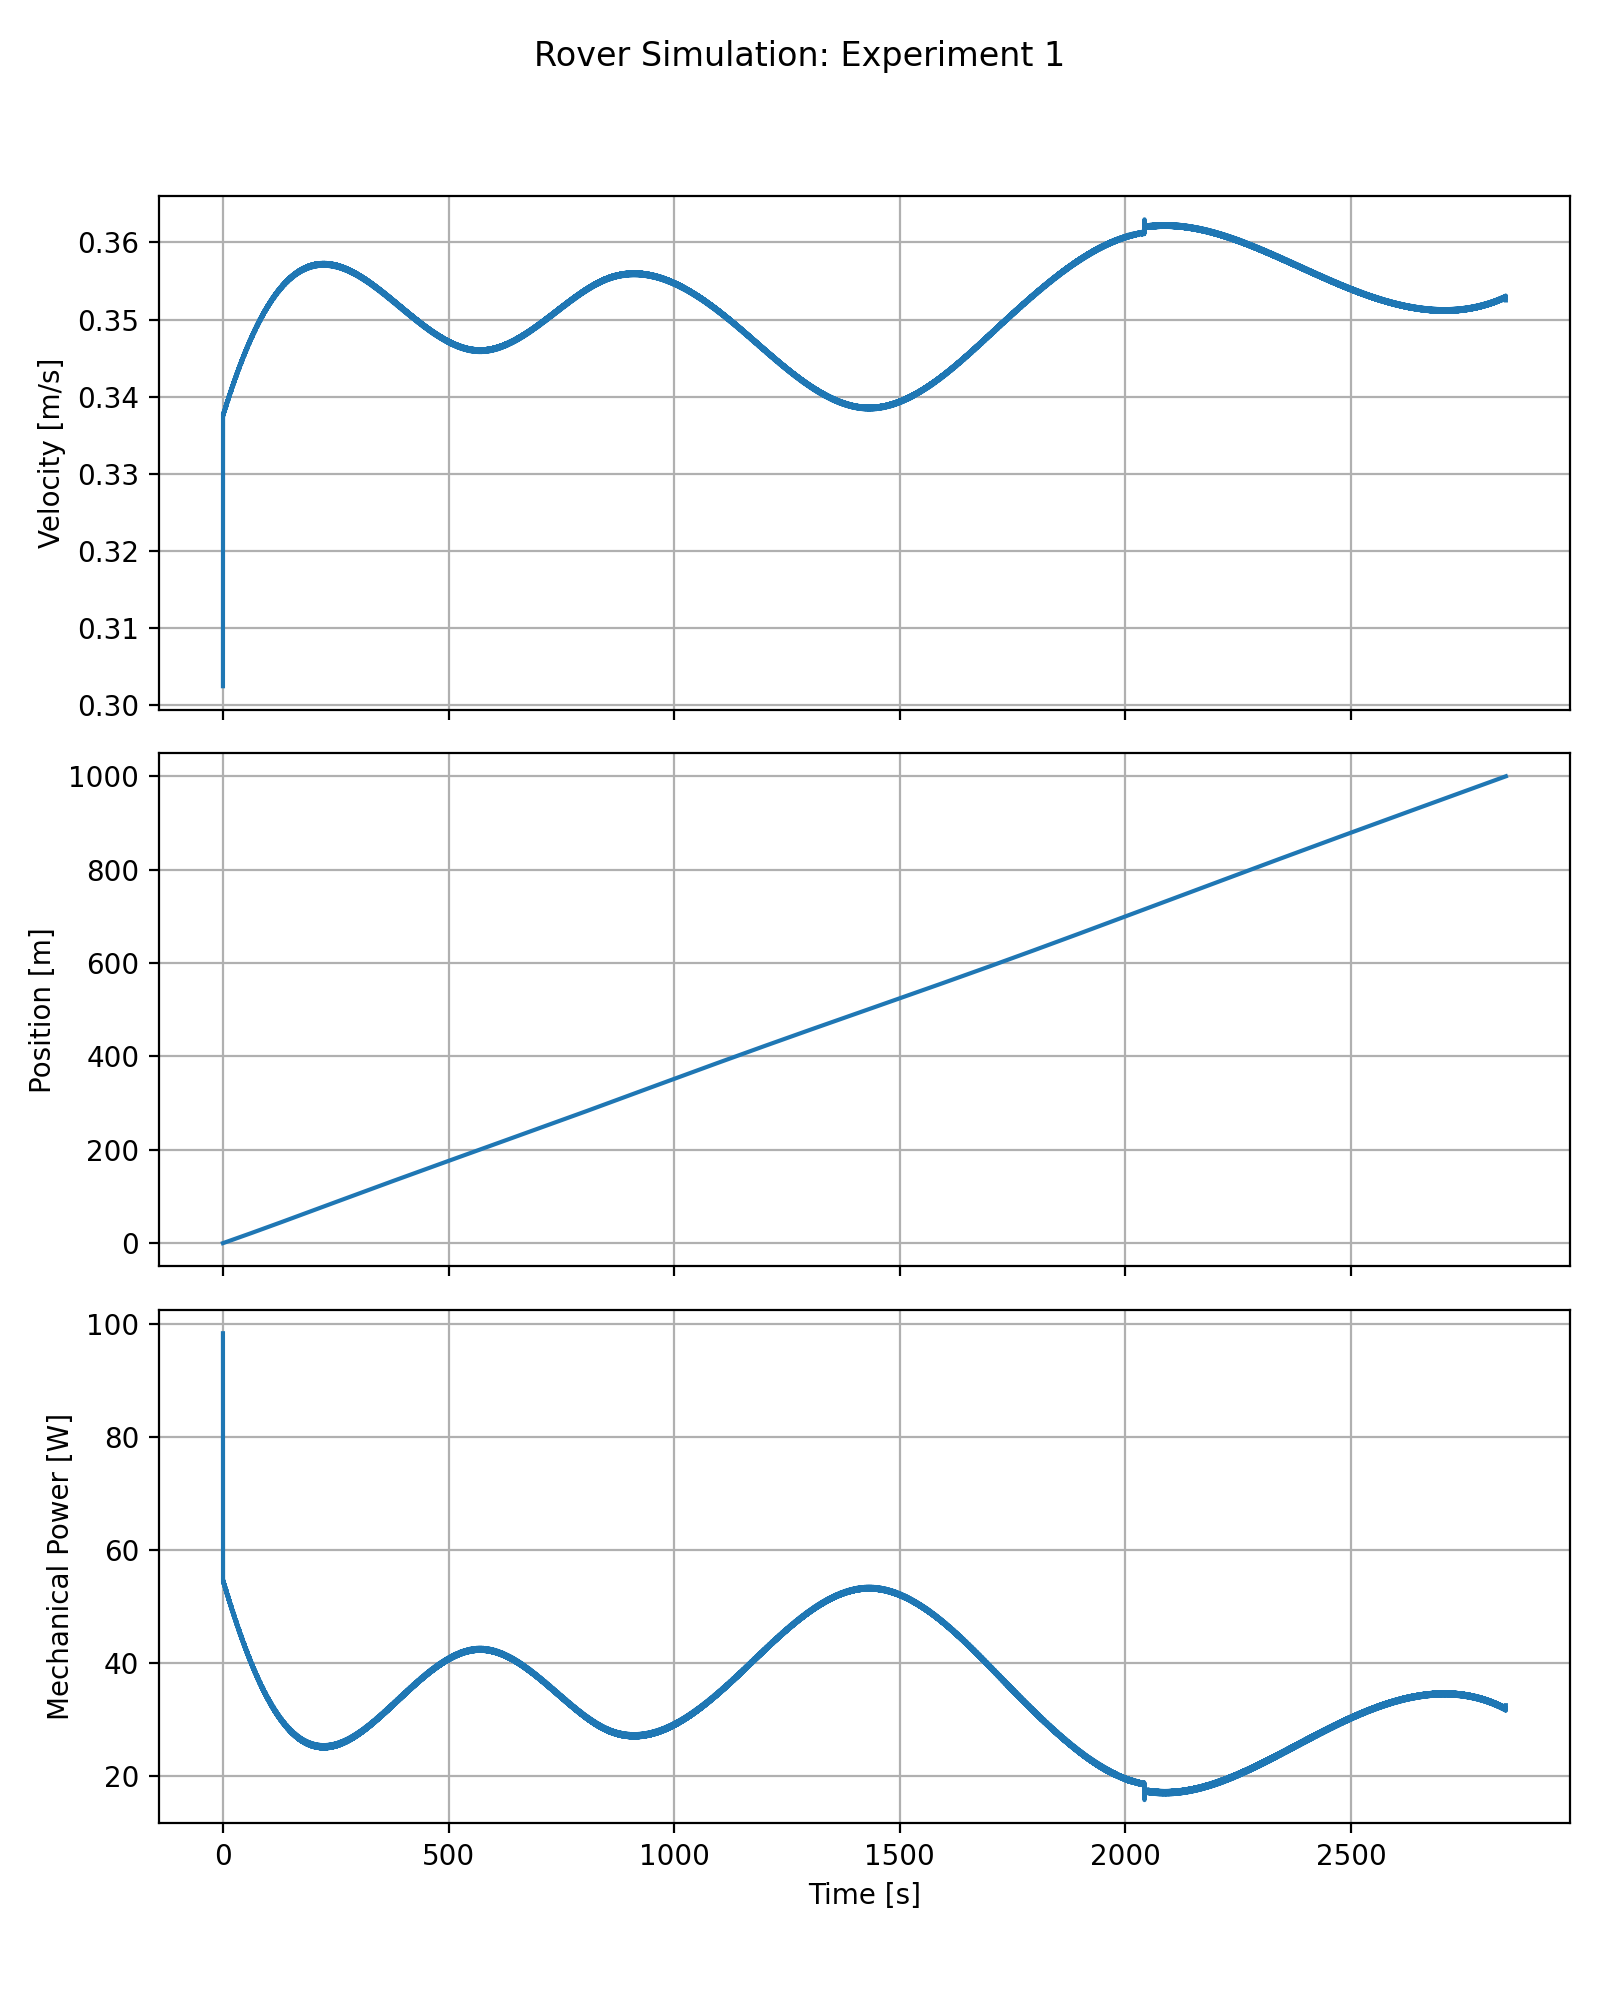
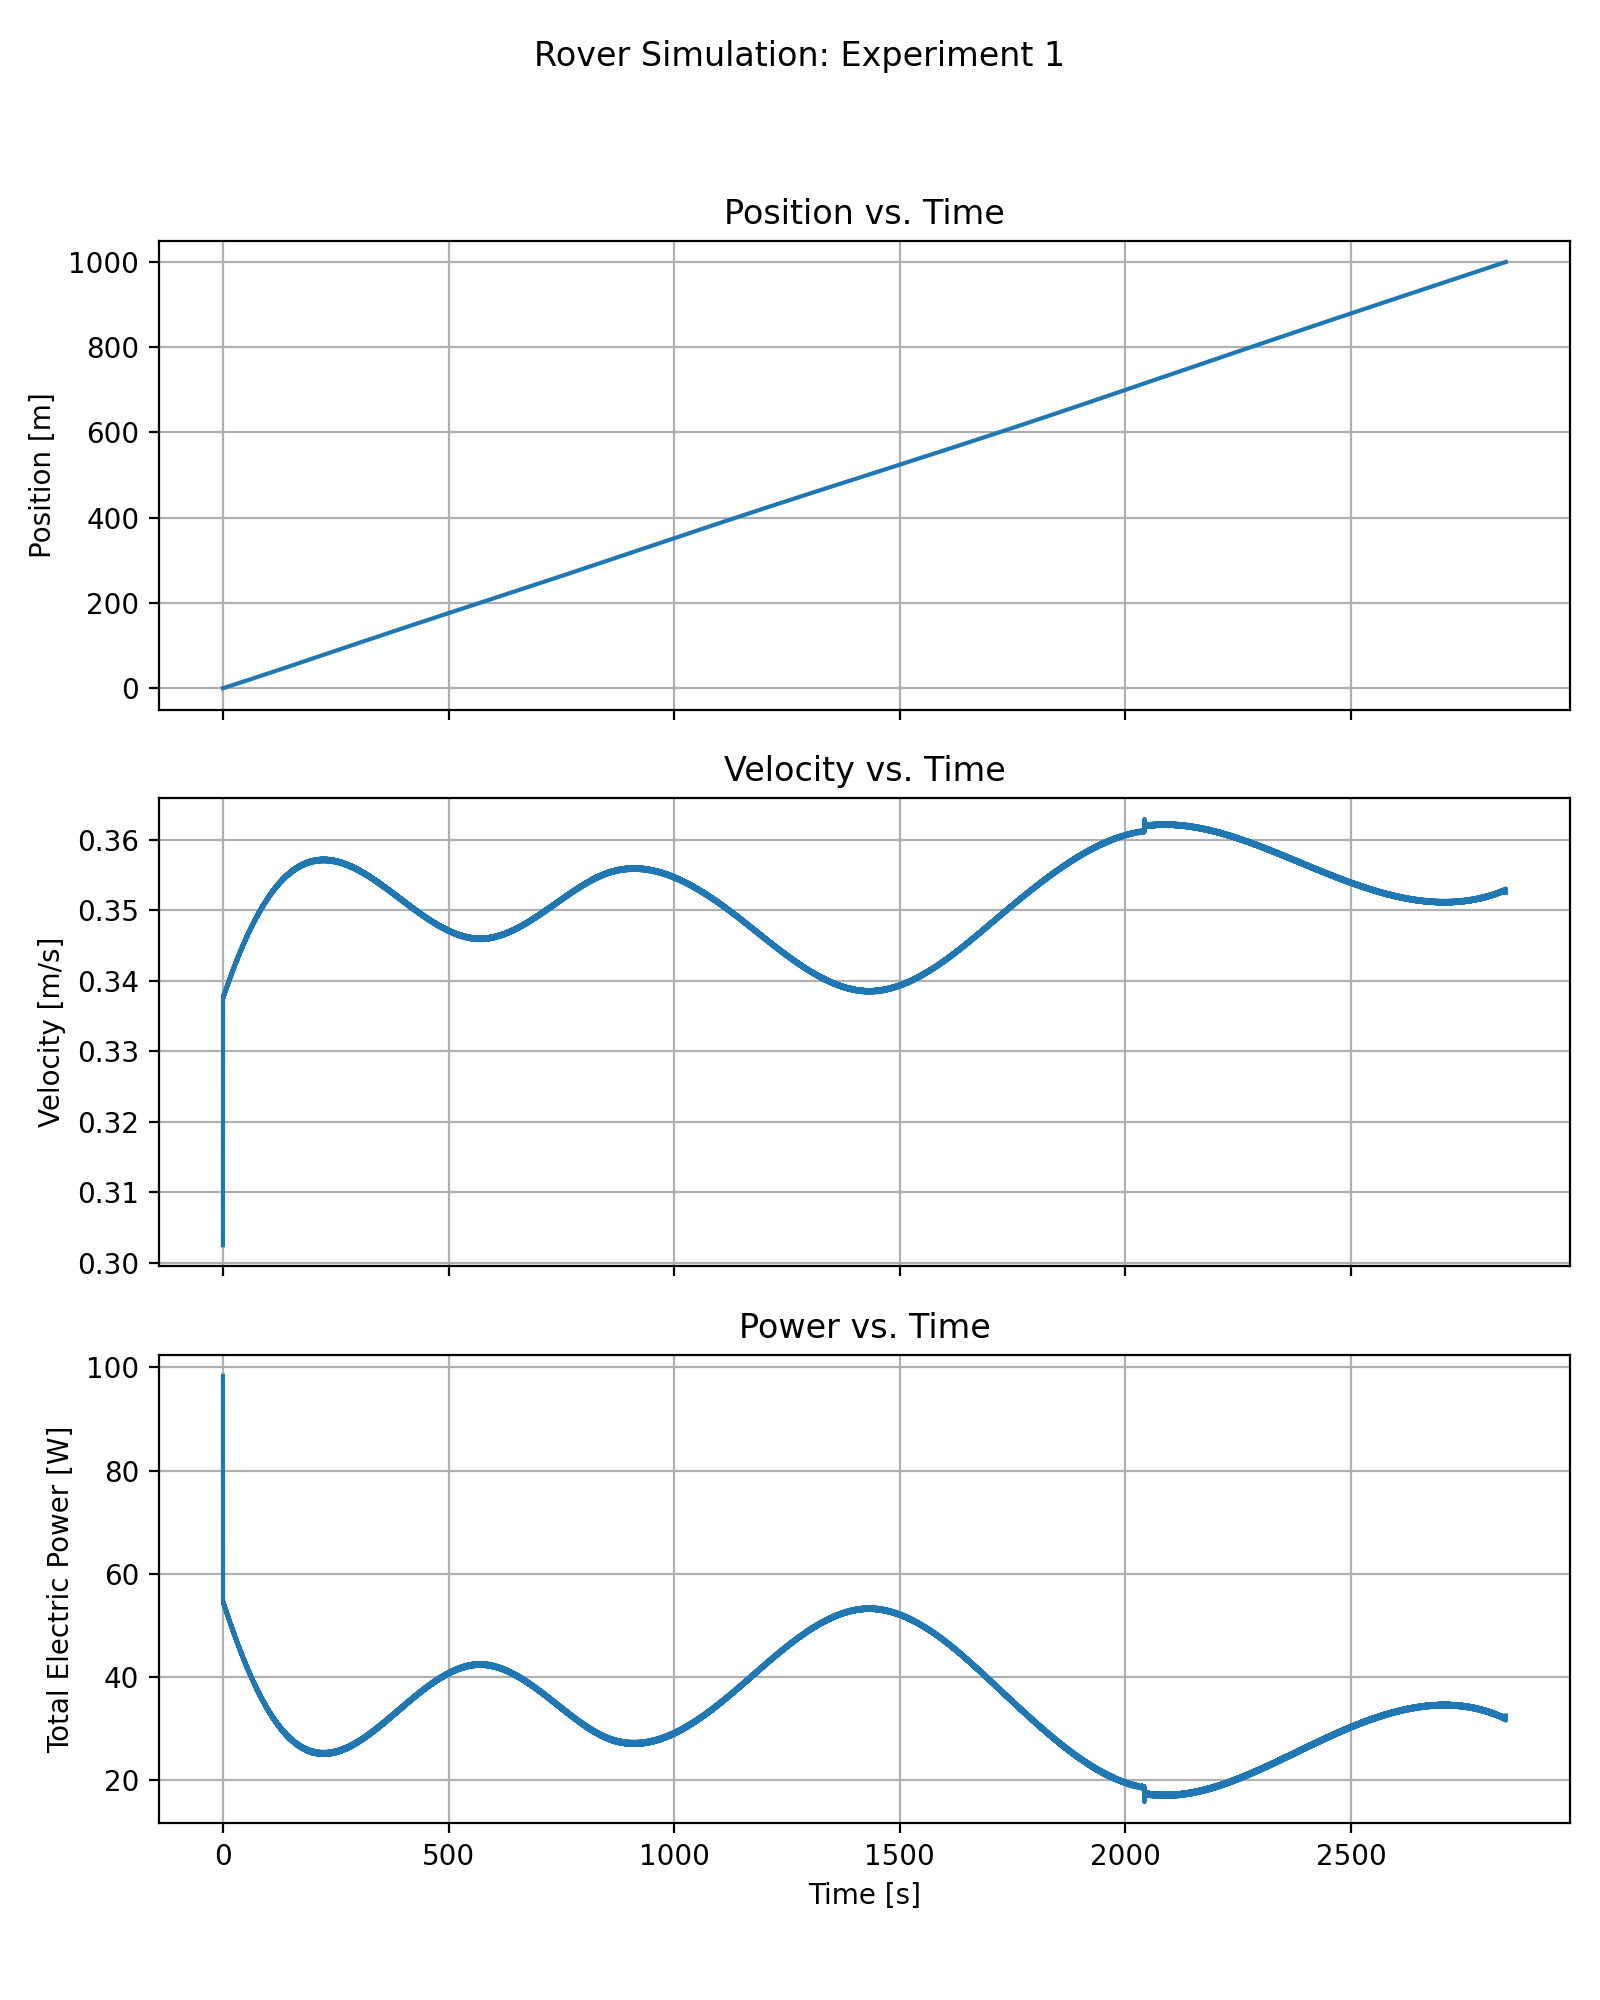
task 8 should be good now. I think we just need to  make the document now

diff --git a/Phase 2/rover_experiment1.py b/Phase 2/rover_experiment1.py
@@ -14,43 +14,46 @@ from subfunctions import simulate_rover
 from define_experiment import experiment1
 import dictionary_357 as dict
 
+# get rover and planet dictionaries
+rover = getattr(dict, 'rover', None)
+planet = getattr(dict, 'planet', None)
+experiment_dict, end_event = experiment1()
 
-def run_and_plot():
-	rover = getattr(dict, 'rover', None)
-	planet = getattr(dict, 'planet', None)
-	experiment_dict, end_event = experiment1()
+# pull the telemetry data from the simulation
+telemetry = simulate_rover(rover, planet, experiment_dict, end_event)
 
-	telemetry = simulate_rover(rover, planet, experiment_dict, end_event)
+# define time, velocity, position, and power for plotting
+t = telemetry['time']
+v = telemetry['velocity']
+x = telemetry['position']
+power = telemetry.get('power', None)
 
-	t = telemetry['time']
-	v = telemetry['velocity']
-	x = telemetry['position']
-	power = telemetry.get('power', None)
+## create subplots for velocity, position, and power
+# position
+fig, axes = plt.subplots(3, 1, figsize=(8, 10), sharex=True)
+axes[0].set_title('Position vs. Time')
+axes[0].plot(t, x)
+axes[0].set_ylabel('Position [m]')
+axes[0].grid(True)
 
-	fig, axes = plt.subplots(3, 1, figsize=(8, 10), sharex=True)
-	axes[0].plot(t, v)
-	axes[0].set_ylabel('Velocity [m/s]')
-	axes[0].grid(True)
+# velocity
+axes[1].set_title('Velocity vs. Time')
+axes[1].plot(t, v)
+axes[1].set_ylabel('Velocity [m/s]')
+axes[1].grid(True)
 
-	axes[1].plot(t, x)
-	axes[1].set_ylabel('Position [m]')
-	axes[1].grid(True)
+#power
+axes[2].set_title('Power vs. Time')
+axes[2].plot(t, power)
+axes[2].set_ylabel('Total Electric Power [W]')
+axes[2].set_xlabel('Time [s]')
+axes[2].grid(True)
 
-	if power is not None:
-		axes[2].plot(t, power)
-		axes[2].set_ylabel('Mechanical Power [W]')
-	else:
-		axes[2].text(0.5, 0.5, 'No power data', ha='center')
-	axes[2].set_xlabel('Time [s]')
-	axes[2].grid(True)
+# overall title and layout adjustments and show/save
+plt.suptitle('Rover Simulation: Experiment 1')
+plt.tight_layout(rect=[0, 0.03, 1, 0.95])
+plt.savefig('rover_experiment1_results.png', dpi=200)
+plt.show()
 
-	plt.suptitle('Rover Simulation: Experiment 1')
-	plt.tight_layout(rect=[0, 0.03, 1, 0.95])
-	plt.savefig('rover_experiment1_results.png', dpi=200)
-	plt.show()
-
-
-if __name__ == '__main__':
-	run_and_plot()
 
 
